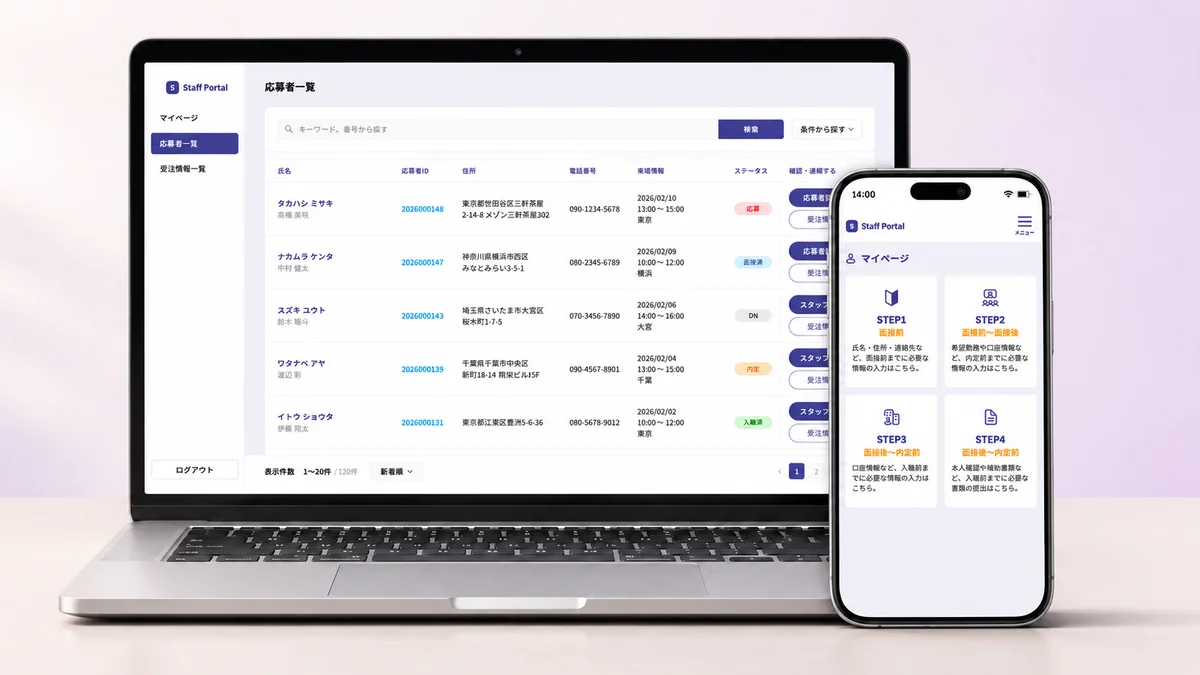
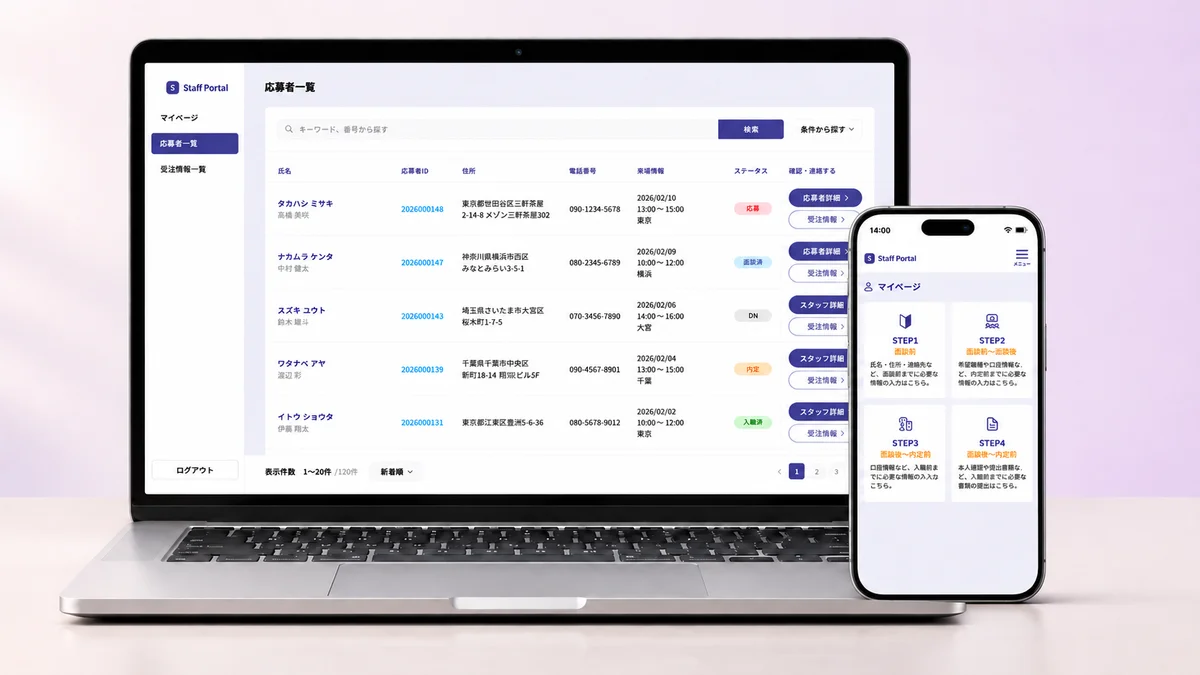
Hero・自己紹介の文章を差し替え、スタッフ管理ポータルに Design Process を追加
- Hero: 説明文を差し替え、文節単位で改行されるようにする
- About: 自己紹介の文章を差し替え、太字をなくす
- Skills: Tools と重複する Design Tools のカードを削除
- スタッフ管理ポータル: メイン画像を差し替え、Figma の全画面一覧を Design Process として追加
- Other Screens を Sample Screens に改名し、サンプルである旨の注記を Overview に追加

diff --git a/src/i18n/messages.ts b/src/i18n/messages.ts
@@ -17,9 +17,7 @@ type Paragraph = Segment[];
 
 export type Messages = {
   hero: {
-    descriptionBefore: string;
-    descriptionHighlight: string;
-    descriptionAfter: string;
+    description: string;
     ctaWorks: string;
   };
   about: {
@@ -42,6 +40,7 @@ export type Messages = {
     graphicCount: string;
     deviceLabels: { pc: string; sp: string };
     viewAll: string;
+    sampleNote: string;
   };
   process: {
     intro: string;
@@ -58,10 +57,8 @@ export type Messages = {
 export const messages: Record<Locale, Messages> = {
   ja: {
     hero: {
-      descriptionBefore:
-        "デザインだけでなく、実装まで見据えた設計を大切にしています。\n見た目だけで終わらない、",
-      descriptionHighlight: "「成果につながるクリエイティブ」",
-      descriptionAfter: "を、\nお客様のご要望に寄り添いながらご提案します。",
+      description:
+        "アイデアを整理して、デザインして、動く形へ。\nUIデザインとフロントエンドを軸に、企画の整理から実装まで関わっています。\n話して、つくって、試して。少しずつ形にしていくのが好きです。",
       ctaWorks: "つくったもの見る",
     },
     about: {
@@ -70,25 +67,22 @@ export const messages: Record<Locale, Messages> = {
       selfIntroParagraphs: [
         [
           { text: "はじめまして、" },
-          { text: "Munise（むにせ）", bold: true },
+          { text: "Munise（むにせ）" },
           { text: "です。" },
         ],
         [
-          { text: "18歳でトルコから来日し、新卒でテレビ制作の現場へ。分刻みのスケジュールの中で" },
-          { text: "「どうすれば伝わるか」", bold: true },
-          { text: "を叩き込まれました。その後、未経験からIT業界に飛び込み、QA・デザイン・モバイル・Webと領域を広げながら4年が経ちました。" },
+          { text: "18歳で、大学進学のためにトルコから日本へ。テレビ制作の現場を経て、今は" },
+          { text: "UIデザインとフロントエンド" },
+          { text: "を軸に、ものづくりに取り組んでいます。" },
         ],
         [
-          { text: "途中、自ら" },
-          { text: "開発事業部の立ち上げを提案・実現", bold: true },
-          { text: "し、チームを作ってアプリをリリースしました。" },
-          { text: "「やってみよう」と動き出すのが割と早い方", bold: true },
-          { text: "だと思っています。" },
+          { text: "大切にしているのは、" },
+          { text: "「どうすれば、もっと伝わるだろう？」" },
+          { text: "と考えること。使う人が迷わず、開発する人も実装しやすいデザインを目指しています。" },
         ],
         [
-          { text: "今は" },
-          { text: "フロントエンドとUIデザイン", bold: true },
-          { text: "を軸に、エンジニアが実装しやすく・ユーザーが迷わないUIを考えることが自分の得意なことです。チームと一緒にプロダクトを育てていくのが好きです。" },
+          { text: "「やってみよう」と、まず動いてみるタイプ" },
+          { text: "です。関わる人の声を聞きながら、アイデアや課題、優先順位を整理し、プロジェクトを前に進めることも得意です。それぞれの得意を活かして、一緒に形にしていく時間が好きです。" },
         ],
       ],
       valuesTitle: "大切にしていること",
@@ -117,7 +111,6 @@ export const messages: Record<Locale, Messages> = {
       categoryTaglines: [
         "体験設計からUI設計まで",
         "UIの実装とインタラクション設計",
-        "Figmaを軸にしたデザイン制作",
       ],
     },
     projects: {
@@ -128,6 +121,7 @@ export const messages: Record<Locale, Messages> = {
       graphicCount: "{n}点",
       deviceLabels: { pc: "PC専用", sp: "SP専用" },
       viewAll: "タップで全体を見る",
+      sampleNote: "実際の制作画面は公開できないため、制作実績をもとに、内容を一部変更したサンプルを掲載しています。",
     },
     process: {
       intro: "こまめにお見せして、ご相談しながら進めます。",
@@ -149,10 +143,8 @@ export const messages: Record<Locale, Messages> = {
   },
   en: {
     hero: {
-      descriptionBefore:
-        "I design with implementation in mind — not just how it looks, but how it works.\nI craft ",
-      descriptionHighlight: "\"creative work that drives real outcomes,\"",
-      descriptionAfter: "\nshaped closely around each client's needs.",
+      description:
+        "Organizing ideas, designing them, and turning them into something that works.\nWith UI design and frontend at the core, I'm involved from shaping the plan to implementation.\nTalk, build, test. I love bringing things to life step by step.",
       ctaWorks: "See my work",
     },
     about: {
@@ -161,24 +153,22 @@ export const messages: Record<Locale, Messages> = {
       selfIntroParagraphs: [
         [
           { text: "I'm " },
-          { text: "Munise", bold: true },
+          { text: "Munise" },
           { text: " — nice to meet you." },
         ],
         [
-          { text: "I moved to Japan from Turkey at 18 and started my career in TV production. Working inside minute-by-minute broadcast schedules, I learned one thing deeply: " },
-          { text: "how to make things actually land.", bold: true },
-          { text: " I later pivoted into IT with zero prior experience, and over the past four years I've expanded across QA, design, mobile, and web." },
+          { text: "I came to Japan from Turkey at 18 to go to university. After working in TV production, I now build things with a focus on " },
+          { text: "UI design and frontend" },
+          { text: "." },
         ],
         [
-          { text: "Along the way, I " },
-          { text: "proposed and launched a new development division from scratch", bold: true },
-          { text: ", built the team, and shipped apps to the App Store. I tend to be " },
-          { text: "quick to move and prototype rather than overthink.", bold: true },
+          { text: "What I care about most is asking, " },
+          { text: "\"How can this come across even better?\"" },
+          { text: " I aim for designs that users can navigate without getting lost and that developers can implement easily." },
         ],
         [
-          { text: "Today I focus on " },
-          { text: "frontend and UI design", bold: true },
-          { text: " — shaping UIs that are easy to implement and easy for users to navigate. What I love most: growing products alongside the team." },
+          { text: "I'm the type who says \"let's try it\" and gets moving first." },
+          { text: " I'm also good at listening to the people involved, sorting out ideas, issues, and priorities, and moving projects forward. I love the time spent bringing things to life together, with everyone making the most of their strengths." },
         ],
       ],
       valuesTitle: "What I value",
@@ -207,7 +197,6 @@ export const messages: Record<Locale, Messages> = {
       categoryTaglines: [
         "From UX research to UI design",
         "UI implementation and interaction design",
-        "Design craft centered on Figma",
       ],
     },
     projects: {
@@ -219,6 +208,7 @@ export const messages: Record<Locale, Messages> = {
       graphicCount: "{n} pieces",
       deviceLabels: { pc: "Desktop", sp: "Mobile" },
       viewAll: "Tap to view all",
+      sampleNote: "The actual production screens can't be made public, so these are samples based on the real work, with some content changed.",
     },
     process: {
       intro: "I share work early and often, and shape it together with you.",

diff --git a/src/components/Skills.tsx b/src/components/Skills.tsx
@@ -44,7 +44,6 @@ const toolCategories: { title: string; tools: { name: string; logo: string }[] }
 const skillCategories = [
   { title: "UI / UX Design", icon: "~ *", skills: ["UI Design", "UX Research", "Prototyping", "Design System"], gradient: "from-[#a8305f] to-[#d4567e]", border: "border-[#a8305f]/30" },
   { title: "Frontend", icon: "{ }", skills: ["React", "Next.js", "TypeScript", "Tailwind CSS"], gradient: "from-[#b53a65] to-[#d45e6a]", border: "border-[#b53a65]/30" },
-  { title: "Design Tools", icon: "◇ ◆", skills: ["Figma", "Photoshop", "Canva", "Design Tokens", "Variants"], gradient: "from-[#d4567e] to-[#e88560]", border: "border-[#d4567e]/30" },
 ];
 
 export default function Skills() {
@@ -57,7 +56,7 @@ export default function Skills() {
           <h2 className="section-title text-5xl md:text-6xl font-black mb-2 pr-2"><span className="gradient-text">Skills</span></h2>
           <p className="text-zinc-500 text-lg max-w-xl mt-2">{m.skills.tagline}</p>
         </motion.div>
-        <div className="grid grid-cols-1 md:grid-cols-3 gap-6">
+        <div className="grid grid-cols-1 md:grid-cols-2 gap-6">
           {skillCategories.map((category, index) => (
             <motion.div key={category.title} initial={{ opacity: 0, y: 30, scale: 0.95 }} whileInView={{ opacity: 1, y: 0, scale: 1 }} viewport={{ once: true, margin: "0px 0px -150px 0px" }}
               transition={{ duration: 0.5, delay: index * 0.1, ease: [0.22, 1, 0.36, 1] as [number, number, number, number] }}

diff --git a/src/components/ProjectDetailContent.tsx b/src/components/ProjectDetailContent.tsx
@@ -345,6 +345,8 @@ export default function ProjectDetailContent({ slug }: { slug: string }) {
                     {paragraph}
                   </p>
                 ))}
+                {/* サンプル画面がある場合は、実際の画面ではない旨を添える */}
+                {project.samples && <p className="text-sm text-zinc-500 leading-relaxed">{m.projects.sampleNote}</p>}
               </div>
             </FadeIn>
             <FadeIn delay={0.15}>
@@ -551,13 +553,13 @@ export default function ProjectDetailContent({ slug }: { slug: string }) {
         </section>
       )}
 
-      {/* Other Screens - 横並び */}
+      {/* Sample Screens - 横並び */}
       {project.samples && (
         <section className="py-6 px-6">
           <div className="max-w-5xl mx-auto">
             <FadeIn>
               <h2 className="section-title text-2xl md:text-3xl font-black mb-5">
-                <span className="gradient-text">Other Screens</span>
+                <span className="gradient-text">Sample Screens</span>
               </h2>
               {/* 画像の縦横比で幅を配分し、高さをそろえて横に並べる */}
               <div className="flex flex-col md:flex-row gap-4 md:items-start">

diff --git a/src/components/Hero.tsx b/src/components/Hero.tsx
@@ -340,10 +340,8 @@ export default function Hero() {
               <span className="text-base md:text-lg font-mono text-zinc-400">{">"} DESIGNER &amp; DEVELOPER</span>
             </motion.div>
 
-            <motion.p initial={{ opacity: 0, y: 20 }} animate={{ opacity: 1, y: 0 }} transition={{ duration: 0.8, delay: 1.3 }} className="text-sm md:text-base text-zinc-500 max-w-xl leading-relaxed mb-8 whitespace-pre-line">
-              {m.hero.descriptionBefore}
-              <span className="text-[#a8305f] font-bold">{m.hero.descriptionHighlight}</span>
-              {m.hero.descriptionAfter}
+            <motion.p initial={{ opacity: 0, y: 20 }} animate={{ opacity: 1, y: 0 }} transition={{ duration: 0.8, delay: 1.3 }} className="text-sm md:text-base text-zinc-500 max-w-2xl leading-relaxed mb-8 whitespace-pre-line [word-break:auto-phrase]">
+              {m.hero.description}
             </motion.p>
 
             <motion.div initial={{ opacity: 0, y: 20 }} animate={{ opacity: 1, y: 0 }} transition={{ duration: 0.8, delay: 1.6 }} className="flex flex-wrap items-center gap-4">

diff --git a/src/data/projects.ts b/src/data/projects.ts
@@ -270,6 +270,7 @@ export const projects: Project[] = [
     thumbnail: "/images/projects/staff-portal-thumbnail.webp",
     preview: "/images/projects/staff-portal-preview.webp",
     previewSp: { src: "/images/projects/staff-portal-sp.webp", width: 375, height: 812 },
+    designProcess: "/images/projects/staff-portal-figma.webp",
     designDoc: "/docs/staff-portal-design.pdf",
     samples: [
       { src: "/images/projects/staff-portal-applicant-detail.webp", title: "応募者詳細（PC）", width: 1440, height: 3390 },
